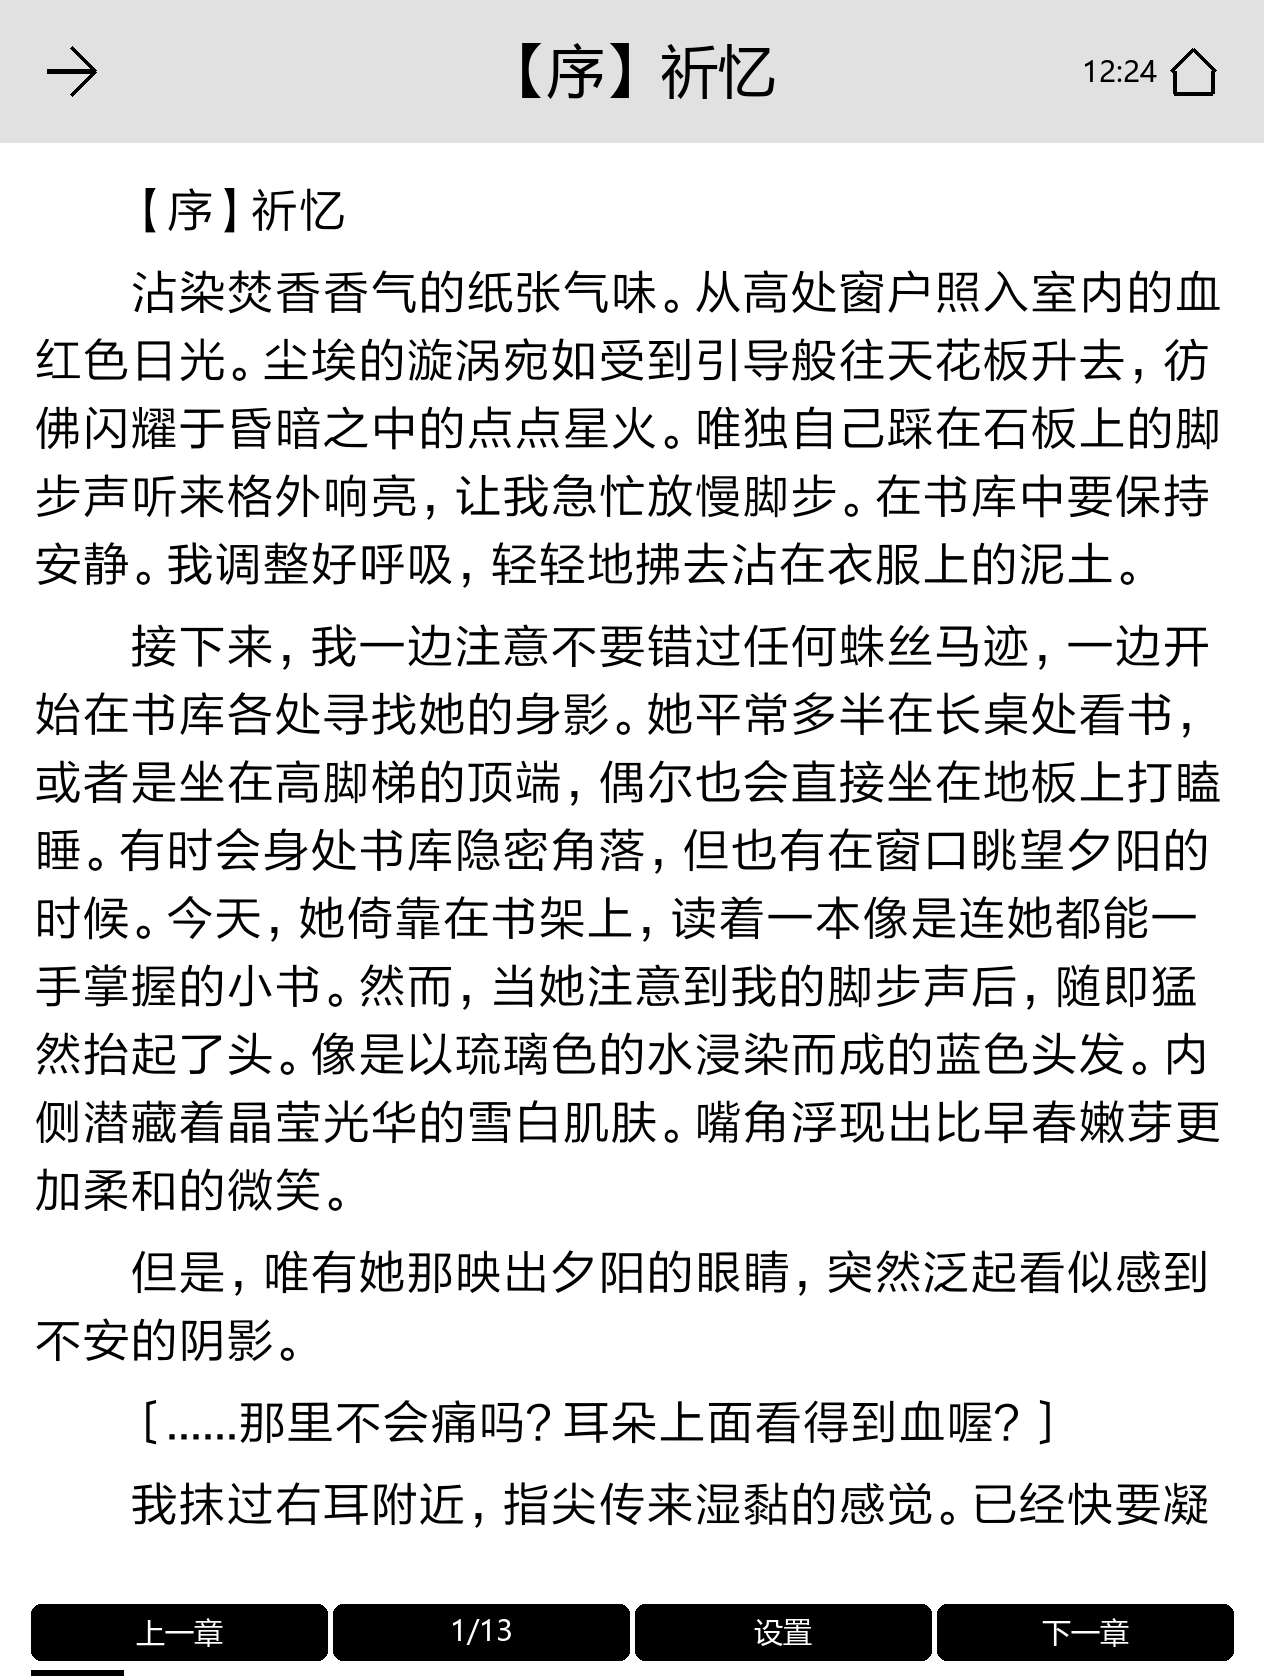
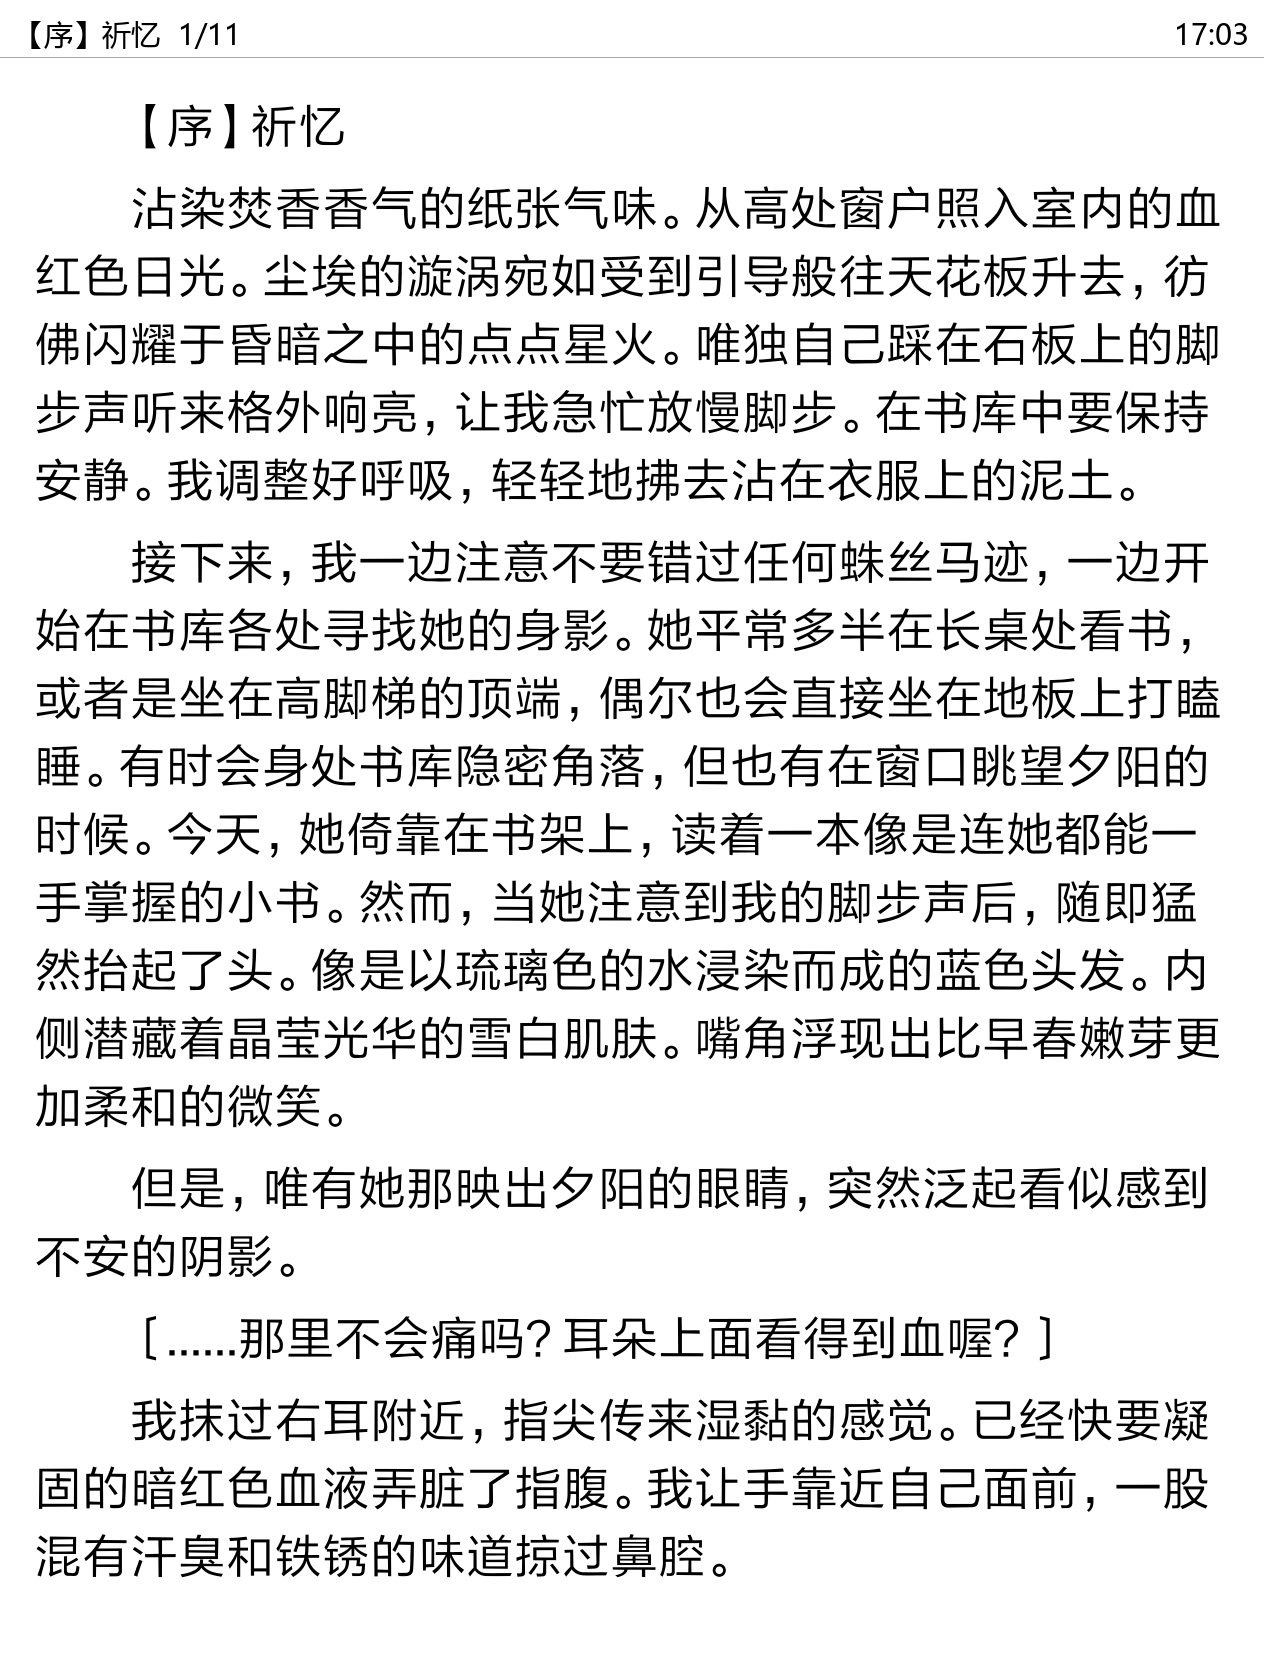
docs: refresh book and reader previews with compact reader layout

diff --git a/tools/generate_readme_previews.py b/tools/generate_readme_previews.py
@@ -5,7 +5,7 @@ import sys
 import time
 from pathlib import Path
 
-from PIL import Image, ImageDraw, ImageFont
+from PIL import ImageFont
 
 
 ROOT = Path(__file__).resolve().parents[1]
@@ -14,7 +14,7 @@ sys.path.insert(0, str(ROOT / "bin" / "src"))
 from kinnovel.api import ApiClient, SessionStore
 from kinnovel.config import Config
 from kinnovel.pages import book, home, rank, reader
-from kinnovel.reader import ReaderDocument, ensure_font
+from kinnovel.reader import ensure_font
 from kinnovel.ui import ImageCache, PageContext
 from kinnovel.utils import sha256_text
 
@@ -182,7 +182,15 @@ def render_reader(api, response, document):
     return context.render()
 
 
-def main():
+ALL_PAGES = ("home", "rank", "book", "reader")
+
+
+def main(argv=None):
+    # 用法: generate_readme_previews.py [home rank book reader ...]，缺省全部
+    wanted = set(argv if argv is not None else sys.argv[1:]) or set(ALL_PAGES)
+    unknown = wanted - set(ALL_PAGES)
+    if unknown:
+        raise RuntimeError("unknown preview pages: %s" % ", ".join(sorted(unknown)))
     email, password = load_credentials()
     session_path = ROOT / "build" / "readme-preview-session.json"
     try:
@@ -198,77 +206,78 @@ def main():
         }))
         api._store_credentials(credentials)
         api.session.set_many({"TokenUpdatedAt": time.time() + 3600})
-        user = request("GetMyInfo", api.get_my_info)
-        display_user = dict(user or {})
-        display_user["UserName"] = "已登录"
-        display_user["Email"] = ""
-        api.session.set_many({"User": display_user})
 
-        rank_items = request("GetRank(daily)", lambda: api.get_rank(1))
-        book_info = request("GetBookInfo(1854)", lambda: api.get_book_info(BOOK_ID))
-        chapters = ((book_info.get("Book") or {}).get("Chapters") or [])
-        if len(chapters) <= CHAPTER_INDEX:
-            raise RuntimeError("book 1854 has fewer than five chapters")
-        chapter = chapters[CHAPTER_INDEX]
-        sort_num = int(chapter.get("SortNum") or CHAPTER_INDEX + 1)
-        novel = request(
-            "GetNovelContent(1854, chapter 5)",
-            lambda: api.get_novel_content(BOOK_ID, sort_num),
-        )
+        if wanted & {"home", "rank"}:
+            user = request("GetMyInfo", api.get_my_info)
+            display_user = dict(user or {})
+            display_user["UserName"] = "已登录"
+            display_user["Email"] = ""
+            api.session.set_many({"User": display_user})
+        rank_items = None
+        if "rank" in wanted:
+            rank_items = request("GetRank(daily)", lambda: api.get_rank(1))
 
-        cover_url = (book_info.get("Book") or {}).get("Cover") or ""
-        if cover_url:
-            cache = ImageCache(maximum=4)
-            if cache.get(cover_url) is None:
-                request("download book cover",
-                        lambda: cache.prefetch(cover_url, strict_tls=True))
+        book_info = None
+        if wanted & {"book", "reader"}:
+            book_info = request("GetBookInfo(1854)", lambda: api.get_book_info(BOOK_ID))
 
-        chapter_data = novel.get("Chapter") or {}
-        font_url = chapter_data.get("Font") or ""
-        font_path = ""
-        if font_url:
-            font_path = request(
-                "download chapter font",
-                lambda: ensure_font(font_url, api.server, strict_tls=True),
+        novel = None
+        document = None
+        if "reader" in wanted:
+            chapters = ((book_info.get("Book") or {}).get("Chapters") or [])
+            if len(chapters) <= CHAPTER_INDEX:
+                raise RuntimeError("book 1854 has fewer than five chapters")
+            chapter = chapters[CHAPTER_INDEX]
+            sort_num = int(chapter.get("SortNum") or CHAPTER_INDEX + 1)
+            novel = request(
+                "GetNovelContent(1854, chapter 5)",
+                lambda: api.get_novel_content(BOOK_ID, sort_num),
             )
-            if font_path:
-                print("[font] chapter font ready", flush=True)
-            else:
-                print("[font] chapter font unavailable; system fallback", flush=True)
+            font_url = (novel.get("Chapter") or {}).get("Font") or ""
+            if font_url:
+                font_path = request(
+                    "download chapter font",
+                    lambda: ensure_font(font_url, api.server, strict_tls=True),
+                )
+                if font_path:
+                    print("[font] chapter font ready", flush=True)
+                else:
+                    print("[font] chapter font unavailable; system fallback", flush=True)
 
-        reader_config = PreviewConfig(config)
-        document = ReaderDocument(
-            chapter_data,
-            api.server,
-            reader_config.get("font_path"),
-            reader_config,
-        )
-        image = Image.new("L", (8, 8), 255)
-        top = max(72, int(SIZE[1] * 0.085))
-        document.prepare(
-            ImageDraw.Draw(image),
-            SIZE[0],
-            SIZE[1] - top - 92,
-        )
-        if document.page_count <= 0:
-            raise RuntimeError("reader produced no pages")
-        print(
-            "[reader] pages=%s body_font=%s fallback_used=%s" % (
-                document.page_count,
-                bool(getattr(document.body_font, "path", "")),
-                not document.font_resolver.custom_font_loaded,
-            ),
-            flush=True,
-        )
+        if "book" in wanted:
+            cover_url = (book_info.get("Book") or {}).get("Cover") or ""
+            if cover_url:
+                cache = ImageCache(maximum=4)
+                if cache.get(cover_url) is None:
+                    request("download book cover",
+                            lambda: cache.prefetch(cover_url, strict_tls=True))
+
+        if "reader" in wanted:
+            # 走页面真实的排版入口，保证截图几何与设备上一致(compact 视图)
+            document = reader._prepare_document(
+                make_context(api), novel.get("Chapter") or {})
+            if document.page_count <= 0:
+                raise RuntimeError("reader produced no pages")
+            print(
+                "[reader] pages=%s body_font=%s fallback_used=%s" % (
+                    document.page_count,
+                    bool(getattr(document.body_font, "path", "")),
+                    not document.font_resolver.custom_font_loaded,
+                ),
+                flush=True,
+            )
 
         output = ROOT / "docs" / "images" / "readme"
         output.mkdir(parents=True, exist_ok=True)
-        pages = {
-            "home.png": render_home(api),
-            "rank.png": render_rank(api, rank_items),
-            "book-1854.png": render_book(api, book_info),
-            "reader-1854-chapter-5.png": render_reader(api, novel, document),
-        }
+        pages = {}
+        if "home" in wanted:
+            pages["home.png"] = render_home(api)
+        if "rank" in wanted:
+            pages["rank.png"] = render_rank(api, rank_items)
+        if "book" in wanted:
+            pages["book-1854.png"] = render_book(api, book_info)
+        if "reader" in wanted:
+            pages["reader-1854-chapter-5.png"] = render_reader(api, novel, document)
         for name, page in pages.items():
             path = output / name
             page.save(path, optimize=True)
